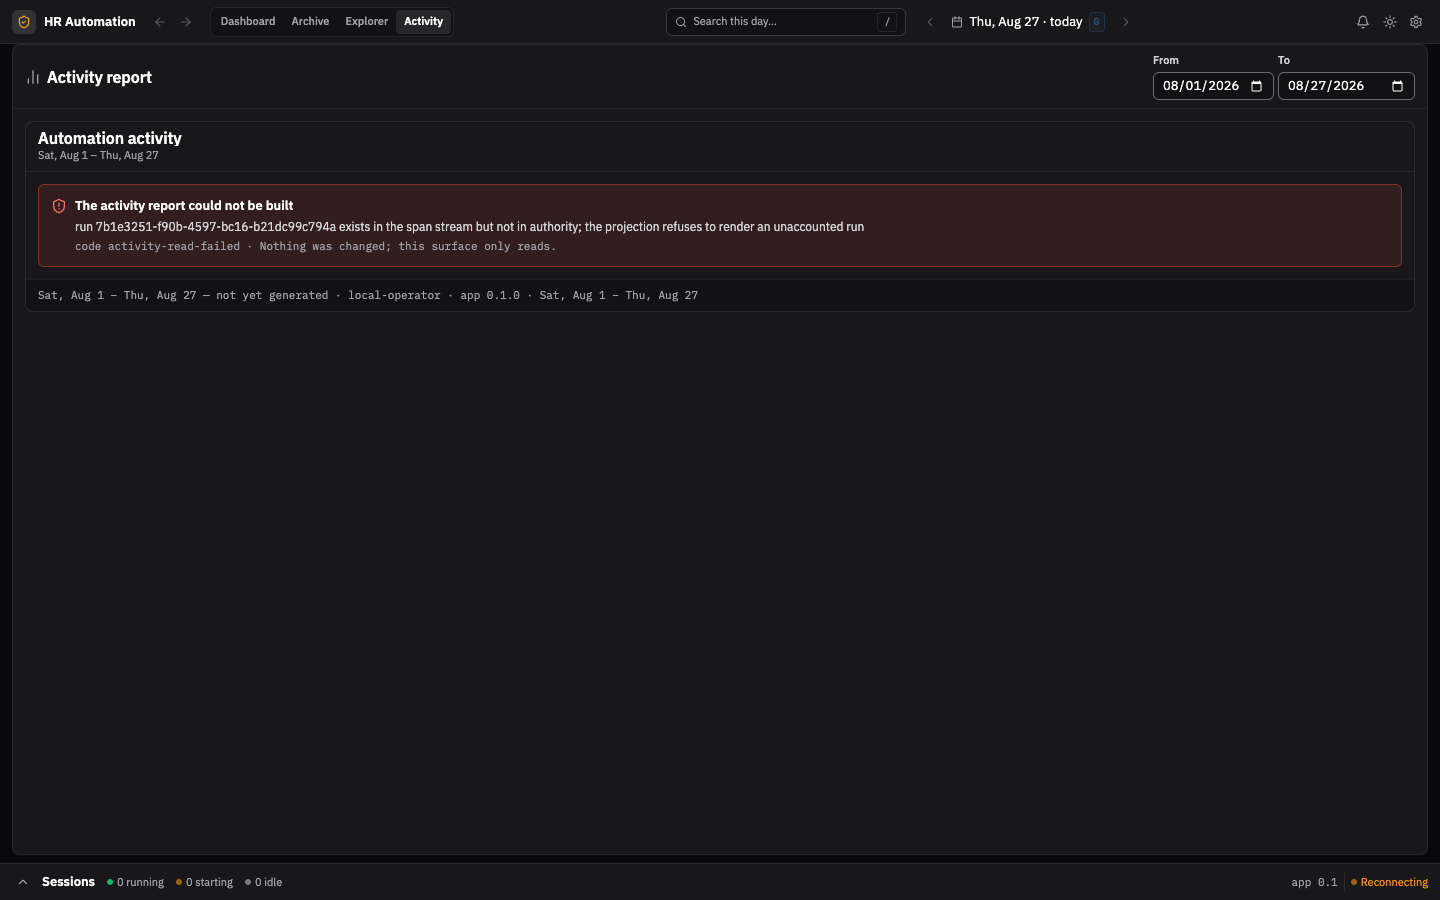
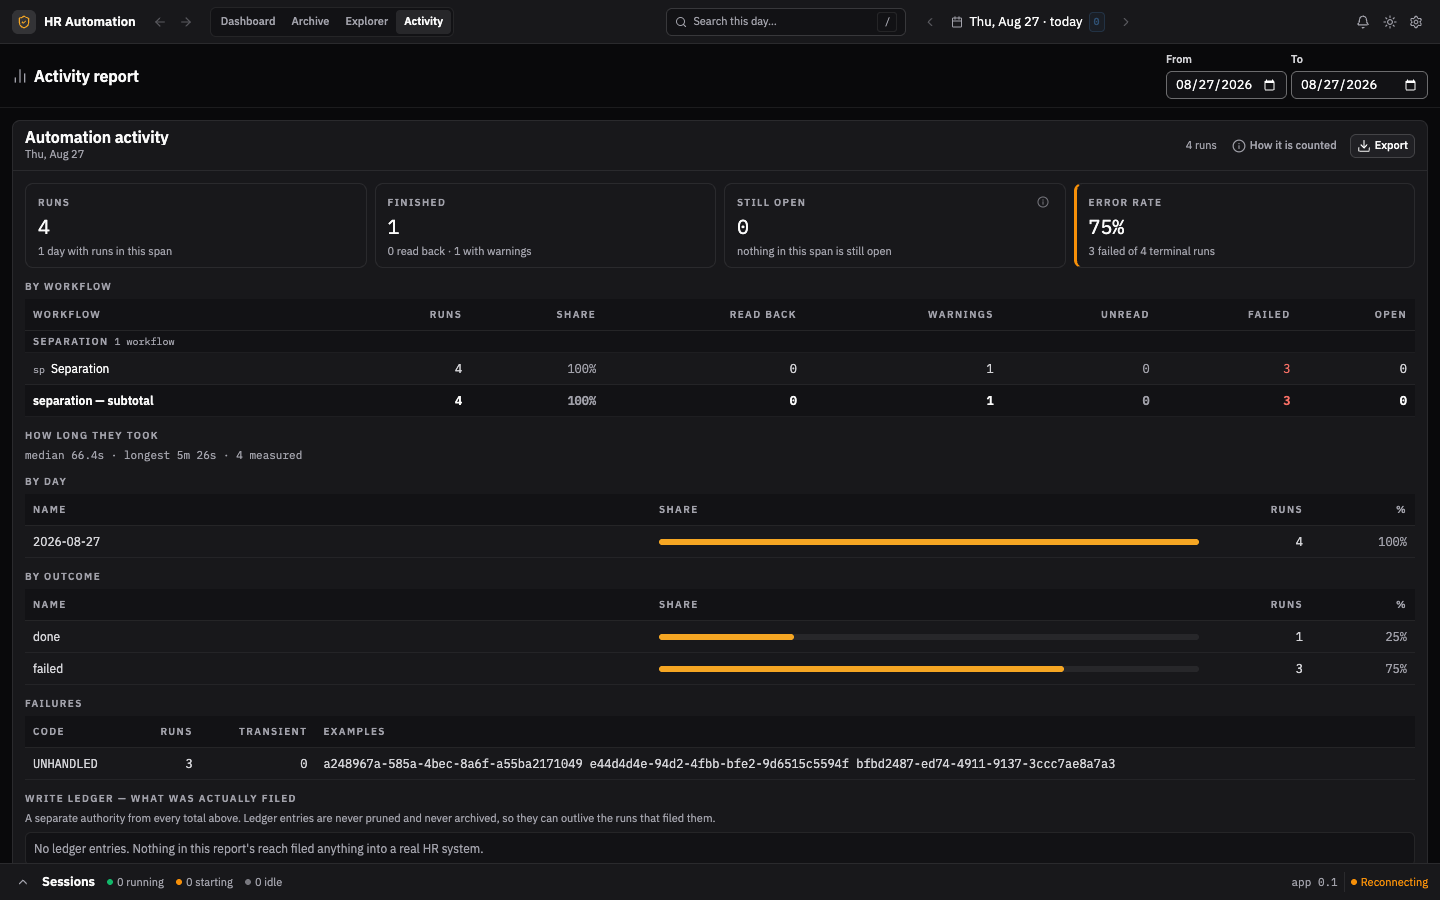
docs(ui): audit populated Activity report

diff --git a/docs/plans/2026-08-27-ui-fidelity-audit.md b/docs/plans/2026-08-27-ui-fidelity-audit.md
@@ -187,7 +187,17 @@ Screenshots: `ui-fidelity-audit/activity-1440-demo.png` · `…-current.png`
 | UF-AC-1 | header | `Activity report` title + icon | present | byte-identical | `exact` | screenshot pair |
 | UF-AC-2 | container | takeover geometry | full-bleed | inset card | `takeover` | demo `RebuildDemo.tsx:668-669`, current `dashboard-app.tsx:1457-1481` (`ActivityPage`); D275 item 2 |
 | UF-AC-3 | header right | span control | day pill + `Every day the tracker holds (3)` pill | `From` / `To` date inputs | `ruled` | AC7 + AC8 (`fidelity-3:363-364`) — `ruled: D180`: an unbounded span would need a served `bounds: { earliest, latest }`; the two bounds ARE the ratified control (`activity.tsx:1119-1126`) |
-| UF-AC-4 | body | `Automation activity` card — 5 stat tiles, `STILL OPEN — BY WHAT IT IS WAITING ON`, `BY WORKFLOW` | rendered | **not rendered** — a refusal pane: *"The activity report could not be built · run 7b1e3251-… exists in the span stream but not in authority; the projection refuses to render an unaccounted run · code `activity-read-failed` · Nothing was changed; this surface only reads."* | `state-only` | a live BACKEND data condition on this day's stream, not a UI divergence. The refusal itself is D275 item 4's explicit refusal pane behaving correctly. **Records as a backend finding, per `findings-ledger-policy` — the surface cannot be fidelity-checked until a healthy day is served (see Gaps)** |
+| UF-AC-4 | body | the prior refusal that blocked the populated-body audit | rendered | **rendered on the reconciled 2026-08-27 single-day span**: HTTP 200, 4 stream runs, all 4 present in live authority | `state-only` | **CLOSED 2026-08-27:** populated body audited in UF-AC-5–14, completing D281's ordered U9→U10 receive (`dashboard-surfaces.md:216-219`). The prior refusal was the local stale-schema16 authority split diagnosed in `docs/findings/activity.md` (U9 `9e3a49df`), not a UI divergence. A range reaching 2026-08-12 still correctly refuses; this row does not claim the broad 2026-08-01–2026-08-27 span is reconciled |
+| UF-AC-5 | headline | stat-tile strip count and geometry | 5 tiles, x=`25 / 304.6 / 584.2 / 863.8 / 1143.4`, w=`271.6`, h=`100` | 4 tiles, x=`25 / 374.5 / 724 / 1073.5`, w=`341.5`, h=`85` | `ruled` | screenshot pair + demo `DemoActivityReport.tsx:147-189` (`grid-cols-5`) vs current `activity.tsx:806-873` (`grid-cols-4`). This is the direct geometric consequence of D239 dropping the fifth tile, not a separate fix (`frontend-backend-integration.md:1685-1704`) |
+| UF-AC-6 | headline | `Runs` tile and its secondary axis | `55` · `110 distinct people touched` | `4` · `1 day with runs in this span` | `state-only` | fixture/range values differ. The absent people axis is the OPEN backend record **Distinct people touched is not served** in `docs/findings/activity.md`, not frontend fix-now work; demo `DemoActivityReport.tsx:114,147-148`, current `activity.tsx:48-57,806-811` |
+| UF-AC-7 | headline | `Finished` tile | `23` · `16 read back · 7 with warnings` | `1` · `0 read back · 1 with warnings` | `state-only` | same completion split over different report data; demo `DemoActivityReport.tsx:149-153`, current `activity.tsx:812-843` |
+| UF-AC-8 | headline | `Still open` tile | `19`, warning arm, `counted in neither the error rate nor hours saved` | `0`, default arm, `nothing in this span is still open` | `state-only` | the conditional zero/non-zero arms are state-driven; demo `DemoActivityReport.tsx:154-175`, current `activity.tsx:845-865`. D239's removal of the hours-saved axis is dispositioned once in UF-AC-10 |
+| UF-AC-9 | headline | `Error rate` tile | `27.8%` · `10 failed of 36 terminal runs` | `75%` · `3 failed of 4 terminal runs` | `state-only` | same numerator/terminal-denominator presentation over different data; demo `DemoActivityReport.tsx:176-181`, current `activity.tsx:795-799,867-872` |
+| UF-AC-10 | headline | `Hours saved` tile | `≈ 3.5`, `estimate`, and operator-minutes provenance | absent | `ruled` | demo `DemoActivityReport.tsx:182-188`; **D239 drops this tile as a decision, not a deferral**, because the demo's `MANUAL_MINUTES` has no measured or durable source (`frontend-backend-integration.md:1685-1704`) |
+| UF-AC-11 | body | `STILL OPEN — BY WHAT IT IS WAITING ON` | present with 4 non-zero rows: Review / Write parked / Running / Queued | omitted because this span has 0 open runs | `state-only` | both implementations omit the block at zero rather than draw an empty outstanding table; demo `DemoActivityReport.tsx:191-210`, current `activity.tsx:747-785` |
+| UF-AC-12 | body | `BY WORKFLOW` population | 8 categories / 15 workflows | 1 category / 1 workflow | `state-only` | both are category-grouped renderings of their report data; screenshot/snapshot pair + demo `DemoActivityReport.tsx:212-232`, current `activity.tsx:489-567` |
+| UF-AC-13 | `BY WORKFLOW` | `Unread` column | absent | present between `Warnings` and `Failed`; this reconciled span reads `0` | `new-in-current` | current `activity.tsx:41-44,440-459,470-478,543-552` explicitly calls the axis NEW; demo headers at `DemoActivityReport.tsx:217-226` have no counterpart. **UNRESOLVED:** carry to the operator/next sheet; do not remove it or build it further in this audit |
+| UF-AC-14 | `BY WORKFLOW` | `Est. min saved` column | present, including category subtotals | absent | `ruled` | demo `DemoActivityReport.tsx:217-230`; current `activity.tsx:473-487,543-552`; D239 deliberately leaves `ActivityWorkflowTotal` without `minutesPerRun` (`frontend-backend-integration.md:1685-1704`) |
 
 ---
 
@@ -305,9 +315,12 @@ Ratified by **D272 item 1** and **D274 item 5** (Settings is the demo's full-pag
 Six `fix-now` rows across four seams — comfortably one unit; no split needed. Seam 2 is the only one that leaves
 `src/dashboard/`.
 
-## Summary C — `new-in-current` rows (U5's operator sheet)
+## Summary C — `new-in-current` rows (operator sheets)
 
 Neither built further nor removed. Each needs a numbered "where do you want this?" item.
+
+**U10 adds UF-AC-13 below. It is unresolved and belongs on the next operator sheet; this audit makes
+no product decision about it.**
 
 **UF-SH-10 and UF-SH-11 are reclassed `ruled` in §1 above (2026-08-27, run UI-1 — D275 item 1) and are kept
 in this table only because the two-doors-to-one-place shape D275 item 1 ratified is still worth a
@@ -320,6 +333,7 @@ confirm-or-revisit question, not because either is open on the merits.**
 | UF-SET-24 | the System-hosts banner's first sentence | `surfaces/settings.tsx:517-521` | *"A run envelope carries the instance per system and defaults to production; a start that asks for test is refused outright unless a distinct test host is configured, never quietly sent to production."* — a true statement about a refusal this build has and the demo's runtime does not. Keep (the fact is real and load-bearing) or trim to the demo's shorter framing? |
 | UF-SET-28 | the `provisioned identical to production — refused` host arm | `surfaces/settings.tsx:546-552` | A danger-toned third arm in the TEST column, between `provisioned` and `none provisioned`, for a host configured but byte-equal to production — which `resolveSystemEntryUrl` refuses at run time. The demo has two arms. Unreachable on the current estate (all 9 read `none provisioned`). |
 | UF-SET-33 | the Workflow-capabilities banner's trailing clause | `surfaces/settings.tsx:~640` | *"These six are what a descriptor declares; a seventh appears when a descriptor grows one, never before."* — one added sentence naming this build's capability count. |
+| UF-AC-13 | Activity `BY WORKFLOW` table's `Unread` column | `surfaces/activity.tsx:440-459,470-478,543-552` | A current-only warning-evidence axis between `Warnings` and `Failed`. It distinguishes a finished run whose derived evidence receipt has not been read from one that was read back clean; the demo fixture has no corresponding column. **Unresolved operator question for the next sheet:** whether this honest current-only axis stays in this table or belongs elsewhere. U10 neither removes nor extends it. |
 
 ## Follow-ups — opened by the U2 conversion, not fixed by it
 
@@ -334,9 +348,12 @@ tables only).
 
 ## Gaps — what could not be settled, and why
 
+G1 is retained below as closed audit history. G2 remains the only demo-covered populated surface this audit did
+not newly reach; G3–G5 keep their earlier dispositions.
+
 | # | gap | why | what would close it |
 |---|---|---|---|
-| G1 | **Activity's populated body** (5 stat tiles, `STILL OPEN — BY WHAT IT IS WAITING ON`, `BY WORKFLOW`) was never rendered | the current's activity projection refuses on this day: `activity-read-failed` — *"run 7b1e3251-… exists in the span stream but not in authority"*. A backend condition, not a UI state | a day whose span stream reconciles with authority. **Recorded as a backend finding per `findings-ledger-policy`; not fixed in a frontend unit.** UF-AC-4 is `state-only` on that basis and the surface's populated half stays unaudited |
+| G1 | **CLOSED 2026-08-27 — Activity's populated body** | 2026-08-27 is reconciled: its 4 stream runs all resolve in live authority and the single-day report returns HTTP 200. The prior refusal was a local stale-schema16 split diagnosed in `docs/findings/activity.md` / U9 `9e3a49df` | closed by the final 1440×900 current/demo captures and UF-AC-5–14. The older 2026-08-01–2026-08-27 range is **not** claimed fixed: any range reaching the orphan on 2026-08-12 still correctly refuses |
 | G2 | **the run-OPEN centre and right column** (progress stepper, People/Logs/Receipt tabs, the `Run data` aside, DELEGATION) | the current serves 0 rows on 2026-08-27, so no run can be opened. The demo's own no-run state WAS reached and compared (UF-SH-22) | a day with rows, or the parity lane's fixtures. The three `fidelity-2` run-detail ledger rows (`-2-run-detail.md`, R-rows) already cover this surface and were not re-derived here |
 | G3 | **a standalone keyboard-help overlay** | it does not exist in either app: `DemoShortcutsPopover` (`DemoTopBarSurfaces.tsx:121-154`) and `ShortcutsPopover` (`top-bar.tsx:912+`) both have zero callers, and `?` opens nothing in either. Settled as UF-SET-38 `ruled` (A62 `exact`) rather than left open | nothing — the gap is symmetric and already ruled |
 | G4 | **the demo's Preflight / Demo-surfaces popovers' contents** | both icons are demo-only and already ruled absent (UF-SH-13/14), so their panels have no current counterpart to diff | nothing |
@@ -347,18 +364,21 @@ tables only).
 | class | rows |
 |---|---|
 | `exact` | 43 |
-| `state-only` | 18 |
-| `ruled` | 36 |
+| `state-only` | 24 |
+| `ruled` | 39 |
 | `fix-now` | 6 |
 | `takeover` | 6 |
-| `new-in-current` | 3 |
-| **total** | **112** |
+| `new-in-current` | 4 |
+| **total** | **122** |
 
 Counted mechanically over the ten surface tables (Summaries A–C re-list ids already classed above and are not
 counted twice): every row carries exactly one of the six classes, and no id appears in two surface tables.
 
 **Updated 2026-08-27 (run UI-1):** UF-SH-10 and UF-SH-11 reclassed `new-in-current` → `ruled` (D275 item 1) —
 `ruled` 34 → 36, `new-in-current` 5 → 3. The total (112) is unchanged; only the class distribution moved.
+
+**Updated 2026-08-27 (run UI-2 U10):** the reconciled-day Activity follow-up adds UF-AC-5–14 — six
+`state-only`, three `ruled`, and one unresolved `new-in-current` row. No `fix-now` row was found. Total 112 → 122.
 
 ## Notes
 
